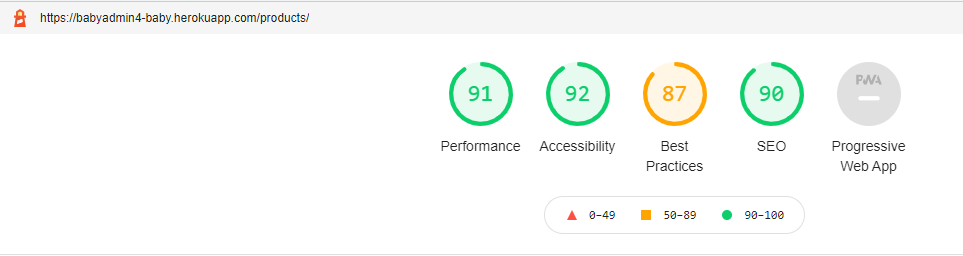
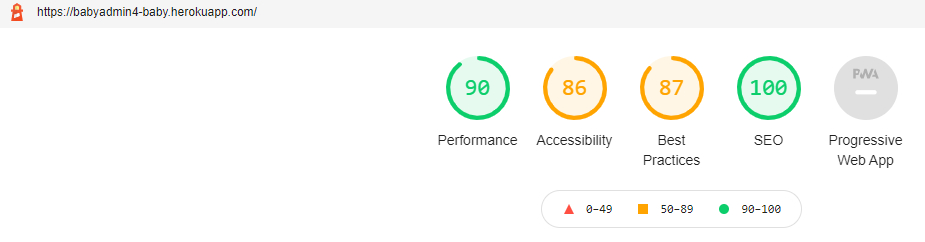
replace lighthouse reports and adapt meta description

diff --git a/templates/base.html b/templates/base.html
@@ -5,7 +5,7 @@
   <head>
  
     {% block meta %}
-        <meta name="description" content="Educational website to learn to code with Django and Python">
+        <meta name="description" content="Website selling babies clothes for educational purposes to learn how to code with Django and Python">
         <meta http-equiv="X-UA-Compatible" content="ie=edge">
         <meta charset="utf-8">
         <meta name="viewport" content="width=device-width, initial-scale=1, shrink-to-fit=no">
